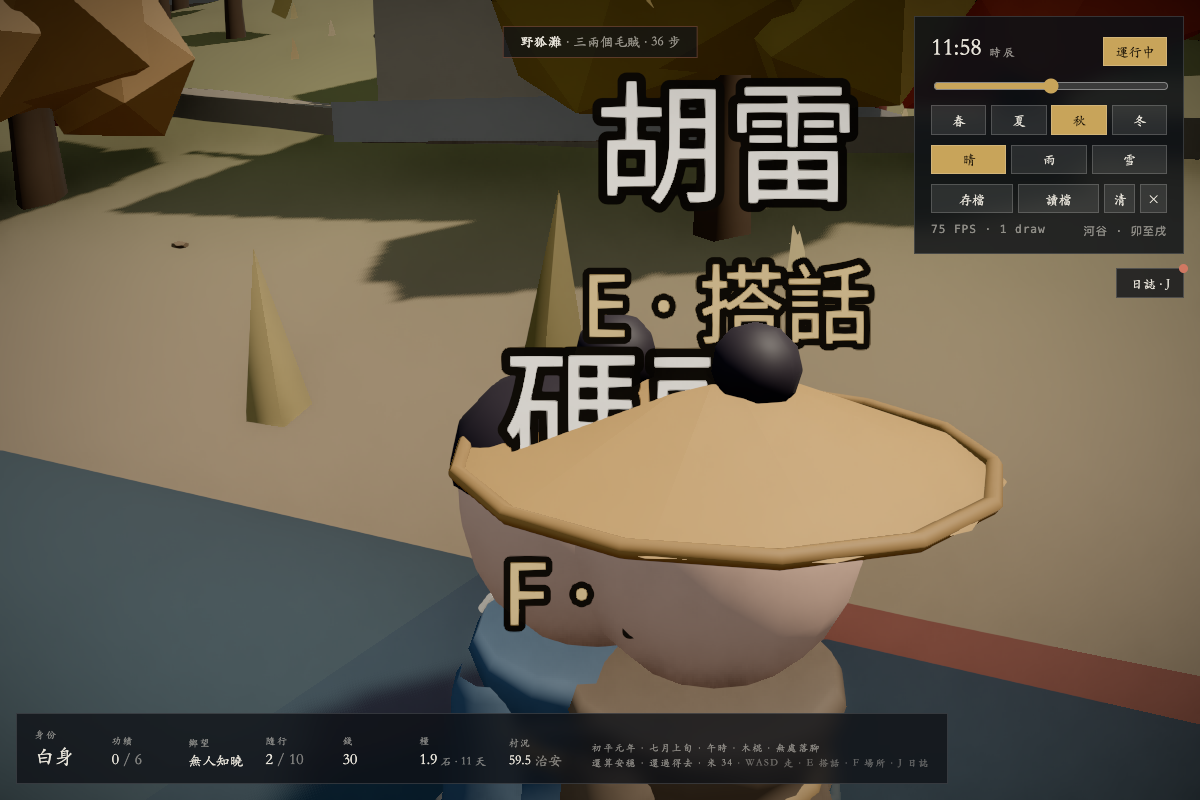
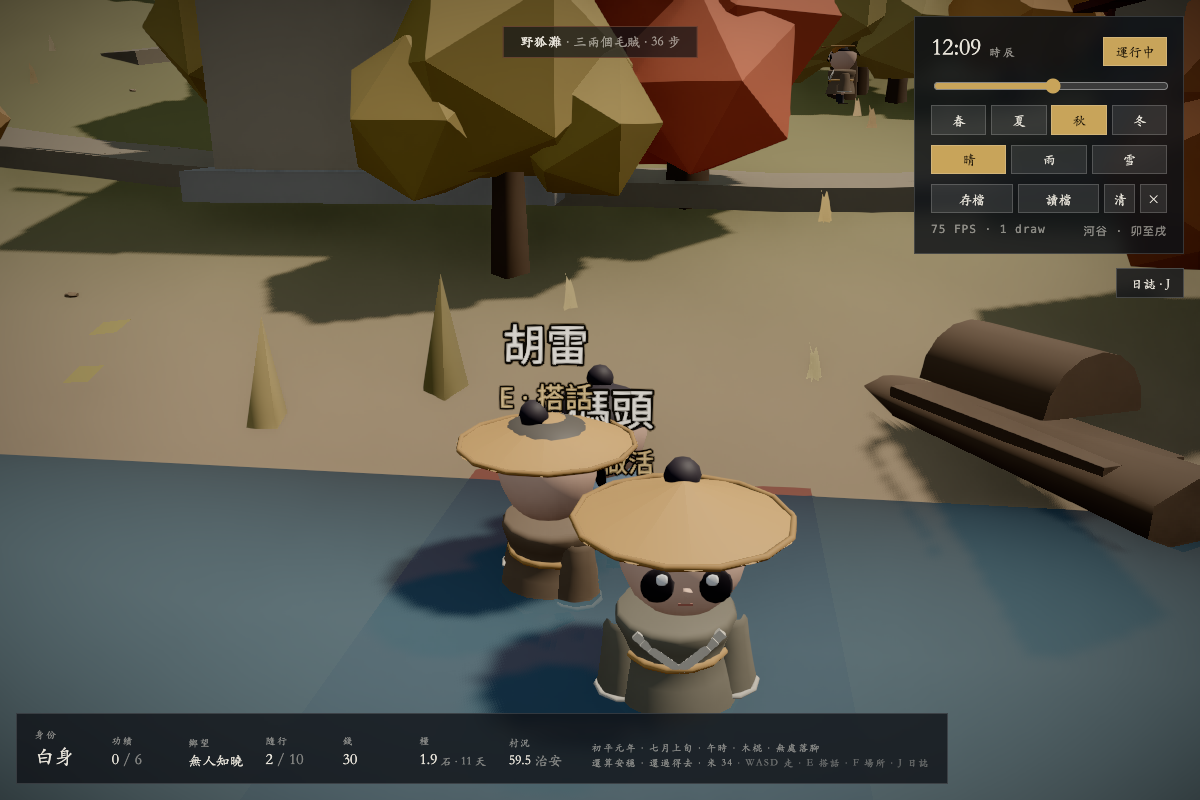
一村子的人不再是複製人:裹幘、鬍子、各人各的身量
三十八個村民共用四種頭,站在市集上一眼就看得出是同一個模子印的。
這一批把「頭」拆成一個 HeadStyle 物件(笠/白髮/幘/鬍),變體從四種擴到八種
—— 同樣的行當、同樣的衣色,換一種頭。

- 幘(頭巾):庶民束髮最常見的一種,和露髻的挑著用。沿著髮面再放大一點鋪一層
  (同一條輪廓線,所以還是處處平行),額前收一道折邊 —— 沒有那道折就只是一頂泳帽。
  顏色要比頭髮淺、比皮膚深,而且不能發亮:第一版 #6d6a62 在暗處讀成銀灰的盔,
  一群裹幘的賊看起來像戴著鋼盔。
- 鬍子:頷下一撮加鼻下兩撇。這副臉本來只有眉眼,下巴那一塊是最大的一片留白。
- 身量:每人開局擲一次(0.88–1.06)。這是複製人感最便宜的解藥 ——
  矩陣裡本來就有縮放這一欄,一個數字都不必多算。縮放要一路帶到胯的高度上,
  不然矮個子的腿會戳進地裡。

八種變體實測都用上了(6/2/2/8/10/5/3/2),身量跨度兩成。
draw call 從 16 到 32,幀率沒動(75)。

README 補六條:凸出多少要是看得懂的數字、長條貼曲面要切段且要疊夠、
兩張貼合的曲面用同一條輪廓線放大、鑲邊要對比色、四種頭等於複製人、
以及 __freezeCam。

diff --git a/src/world/Crowd.tsx b/src/world/Crowd.tsx
@@ -1,4 +1,4 @@
-import { useLayoutEffect, useMemo, useRef } from 'react';
+import { useEffect, useLayoutEffect, useMemo, useRef } from 'react';
 import { useFrame } from '@react-three/fiber';
 import * as THREE from 'three';
 import { groundAt, rng, slideMove, dryLandNear } from './field';
@@ -32,6 +32,8 @@ interface Agent {
   /** 對應 npcs.ts 的身份 — 有名字才談得上搭話。 */
   npcId: string;
   variant: number;
+  /** 身量 —— 這個人比別人高矮胖瘦多少。 */
+  build: number;
   /** 上了年紀 —— 白髮、弓背、腳程慢。年紀要穿在身上,不能只寫在對話裡。 */
   old: boolean;
   home: [number, number];
@@ -108,13 +110,26 @@ export function Crowd() {
             ? (() => { const d = DOCKS[Math.floor(rand() * DOCKS.length)];
                        return dryLandNear(d[0] + (rand() - 0.5) * 3, d[1] + (rand() - 0.5) * 3); })()
             : [MARKET[0] + (rand() - 0.5) * 6, MARKET[1] + (rand() - 0.5) * 6];
-      // 衣裳跟著行當走:農褐、埠青、市綠;上了年紀一律灰袍白髮。
-      // 遠遠一看衣色就知道他是幹什麼的 —— 這就是「行當穿在身上」
-      const variant = old ? 3 : job === 'farm' ? 0 : job === 'dock' ? 1 : 2;
-      rand();                                  // 佔位:原本的 variant 抽數
+      /*
+       * 衣裳跟著行當走:農褐、埠青、市綠;上了年紀一律灰袍白髮。
+       * 遠遠一看衣色就知道他是幹什麼的 —— 這就是「行當穿在身上」。
+       *
+       * 同一個行當再分兩種頭(露髻 / 裹幘),於是四種變體變成八種。
+       * 這一步是為了一件事:三十八個人共用四張臉,那不是一個村子,
+       * 是一批複製人 —— 站在市集上一眼就看出來。
+       */
+      const trade = old ? 3 : job === 'farm' ? 0 : job === 'dock' ? 1 : 2;
+      const variant = trade + (rand() < 0.45 ? 4 : 0);
+      /*
+       * 身量。<b>一村子的人不會一般高</b> —— 這是複製人感最便宜的解藥:
+       * 矩陣裡本來就有縮放這一欄,一個數字都不必多算。
+       * 老人再矮一號(背也弓,見 lean)。
+       */
+      const build = (0.93 + rand() * 0.13) * (old ? 0.94 : 1);
       out.push({
         npcId: villagers[i].id,
         variant,
+        build,
         old,
         home: [h.x, h.z], door: h.door, work, job,
         state: 'home',
@@ -134,18 +149,35 @@ export function Crowd() {
   // 0 農(褐+笠) 1 埠(青+笠) 2 市(綠) 3 老(灰+白髮)
   const variants = useMemo(
     () => [
-      { robe: '#6b5741', hat: true, old: false },
-      { robe: '#3f5568', hat: true, old: false },
-      { robe: '#4a6b52', hat: false, old: false },
-      { robe: '#6a6350', hat: false, old: true },
+      // 露髻的四種
+      { robe: '#6b5741', head: { hat: true } },
+      { robe: '#3f5568', head: { hat: true } },
+      { robe: '#4a6b52', head: {} },
+      { robe: '#6a6350', head: { old: true, beard: true } },
+      // 裹幘的四種 —— 同樣的行當、同樣的衣色,換一種頭
+      { robe: '#6b5741', head: { cloth: true, beard: true } },
+      { robe: '#3f5568', head: { cloth: true } },
+      { robe: '#4a6b52', head: { cloth: true, beard: true } },
+      { robe: '#6a6350', head: { old: true, cloth: true } },
     ].map((v, i) => ({
       body: bodyGeom(new THREE.Color(v.robe)),
-      head: headGeom(v.hat, v.old),
+      head: headGeom(v.head),
       leg: legGeom(),
       idx: agents.map((a, k) => (a.variant === i ? k : -1)).filter((k) => k >= 0),
     })),
     [agents],
   );
+
+  // 原型階段的把手:一村子的人分成幾種、身量差多少
+  useEffect(() => {
+    (window as unknown as Record<string, unknown>).__crowdStat = () => {
+      const byVariant: Record<number, number> = {};
+      const builds = agents.map((a) => +a.build.toFixed(3));
+      for (const a of agents) byVariant[a.variant] = (byVariant[a.variant] ?? 0) + 1;
+      return { n: agents.length, byVariant,
+               build: { min: Math.min(...builds), max: Math.max(...builds) } };
+    };
+  }, [agents]);
 
   const bodyRefs = useRef<Array<THREE.InstancedMesh | null>>([]);
   const headRefs = useRef<Array<THREE.InstancedMesh | null>>([]);
@@ -272,7 +304,7 @@ export function Crowd() {
         tmp.p.set(a.x, a.y + bob, a.z);
         tmp.e.set(lean, a.yaw, sway);
         tmp.q.setFromEuler(tmp.e);
-        tmp.s.setScalar(a.old ? 0.94 : 1);
+        tmp.s.setScalar(a.build);
         tmp.m.compose(tmp.p, tmp.q, tmp.s);
         bm.setMatrixAt(slot, tmp.m);
 
@@ -283,7 +315,7 @@ export function Crowd() {
         const nod = a.state === 'talk' ? Math.sin(t * 2.6 + a.phase) * 0.07 : 0;
         tmp.p.set(
           a.x + Math.sin(a.yaw) * lean * 0.5,
-          a.y + bob + FIG_BODY_H * 0.99 * (a.old ? 0.94 : 1),
+          a.y + bob + FIG_BODY_H * 0.99 * a.build,
           a.z + Math.cos(a.yaw) * lean * 0.5,
         );
         tmp.e.set(nod + lean * 0.6, a.yaw + look, sway * 0.6);
@@ -291,8 +323,8 @@ export function Crowd() {
         tmp.m.compose(tmp.p, tmp.q, tmp.s);
         hm.setMatrixAt(slot, tmp.m);
 
-        // 腿。老人矮一號,腿也跟著矮 —— 縮放要一路帶到胯的高度上
-        const sc = a.old ? 0.94 : 1;
+        // 腿。身量要一路帶到胯的高度上,不然矮個子的腿會戳進地裡
+        const sc = a.build;
         for (const side of [-1, 1] as const) {
           poseLeg(tmp.leg, side, a.x, a.y + bob * 0.5 + FIG_LEG_H * sc, a.z, a.yaw,
             legSwing(step, side, moving), sc);

diff --git a/src/world/figure.ts b/src/world/figure.ts
@@ -309,7 +309,25 @@ function faceStrip(o: {
  * 每一件都貼著臉皮擺(faceZ),不是憑感覺填 z —— 憑感覺的下場是
  * 嘴浮在臉前面一公分,側面看像貼了張紙。
  */
-export function headGeom(hat: boolean, oldHair = false) {
+/**
+ * 一顆頭長什麼樣。
+ *
+ * 分開成一個物件而不是幾個位置參數,是因為<b>這裡遲早會長</b>:
+ * 三十八個村民要是共用兩種頭,那不是一個村子,是一批複製人。
+ */
+export interface HeadStyle {
+  /** 斗笠 —— 下田扛包的戴。 */
+  hat?: boolean;
+  /** 白髮。 */
+  old?: boolean;
+  /** 幘(頭巾)—— 庶民束髮最常見的一種,和露髻的挑著用。 */
+  cloth?: boolean;
+  /** 鬍子。 */
+  beard?: boolean;
+}
+
+export function headGeom(style: HeadStyle = {}) {
+  const { hat = false, old: oldHair = false, cloth = false, beard = false } = style;
   const gs: THREE.BufferGeometry[] = [];
   const HAIR_C = oldHair ? new THREE.Color('#d6d0c4') : HAIR;
   const cy = FIG_HR * 0.84;
@@ -397,6 +415,43 @@ export function headGeom(hat: boolean, oldHair = false) {
     0, cy + R * 1.14, R * 0.26), HAIR_C));
   gs.push(tint(at(new THREE.TorusGeometry(R * 0.24, R * 0.045, 5, 10).rotateX(Math.PI * 0.42),
     0, cy + R * 0.90, R * 0.22), oldHair ? new THREE.Color('#8b8378') : TRIM));
+
+  /*
+   * 幘 —— 庶民把髮包起來的那塊布。
+   *
+   * 和露髻的挑著用,一個村子才不會人人一個模子。做法是沿著髮面再放大一點
+   * 鋪一層(同一條輪廓線,所以還是處處平行),額前收一道折邊。
+   */
+  if (cloth) {
+    /*
+     * 幘的顏色要<b>比頭髮淺、比皮膚深</b>,而且不能發亮。
+     * 第一版 #6d6a62 在暗處讀成一頂銀灰的盔 —— 一群裹幘的賊看起來像戴著鋼盔。
+     */
+    const CLOTH_C = oldHair ? new THREE.Color('#8b857a') : new THREE.Color('#4a453d');
+    gs.push(tint(at(lathe(profileAbove(HEAD_P, HAIRLINE + 0.06), R * 1.075, R * 1.075, 16),
+      0, cy, 0, 1, 1, FACE_SQUASH), CLOTH_C));
+    // 額前那道折 —— 沒有它就只是一頂泳帽
+    gs.push(tint(faceStrip({
+      x: 0, y: cy + R * (HAIRLINE + 0.10), py: HAIRLINE + 0.10,
+      w: R * 1.05, h: R * 0.095, d: R * 0.07, tilt: 0, R: R * 1.075,
+    }), CLOTH_C.clone().multiplyScalar(0.78)));
+  }
+
+  /*
+   * 鬍子。上了年紀的、或是幾個壯年,臉下半就不再是一片空白 ——
+   * 這副臉本來只有眉眼,下巴那一塊是最大的一片留白。
+   */
+  if (beard) {
+    const BEARD_C = oldHair ? new THREE.Color('#b9b2a6') : new THREE.Color('#33292c');
+    // 頷下一撮
+    gs.push(tint(at(new THREE.SphereGeometry(R * 0.30, 8, 6),
+      0, cy - R * 0.74, faceZ(-0.74, -R * 0.06), 0.85, 0.95, 0.75), BEARD_C));
+    // 髭 —— 鼻下兩撇
+    for (const side of [-1, 1]) {
+      gs.push(tint(at(rot(slab(R * 0.16, R * 0.05, R * 0.05), 0, 0, side * 0.30),
+        side * R * 0.10, cy - R * 0.36, faceZ(-0.36, -R * 0.004)), BEARD_C));
+    }
+  }
 
   if (hat) {
     // 斗笠 —— 加一圈笠緣,錐面才不像一個紙帽子

diff --git a/src/world/Battle.tsx b/src/world/Battle.tsx
@@ -113,9 +113,9 @@ export function Battle() {
   );
 
   const geoms = useMemo(() => ({
-    foe: { body: bodyGeom(new THREE.Color(FOE_ROBE)), head: headGeom(false) },
-    chief: { body: bodyGeom(new THREE.Color(FOE_CHIEF_ROBE)), head: headGeom(true) },
-    mate: { body: bodyGeom(new THREE.Color('#6b5741')), head: headGeom(false) },
+    foe: { body: bodyGeom(new THREE.Color(FOE_ROBE)), head: headGeom({ cloth: true }) },
+    chief: { body: bodyGeom(new THREE.Color(FOE_CHIEF_ROBE)), head: headGeom({ hat: true, beard: true }) },
+    mate: { body: bodyGeom(new THREE.Color('#6b5741')), head: headGeom() },
   }), []);
 
   // 刀 = 柄 + 護手 + 身。三塊而已,但少了護手就只是一根白棍子

diff --git a/src/world/Drifters.tsx b/src/world/Drifters.tsx
@@ -27,8 +27,8 @@ export function Drifters() {
   const phase = useMarauders((s) => s.phase);
 
   const geoms = useMemo(() => ({
-    poor: { body: bodyGeom(new THREE.Color('#5d564a')), head: headGeom(false) },
-    troop: { body: bodyGeom(new THREE.Color('#3a3d46')), head: headGeom(false) },
+    poor: { body: bodyGeom(new THREE.Color('#5d564a')), head: headGeom({ cloth: true }) },
+    troop: { body: bodyGeom(new THREE.Color('#3a3d46')), head: headGeom({ beard: true }) },
   }), []);
   const spear = useMemo(() => {
     const g = new THREE.CylinderGeometry(0.035, 0.035, 2.6, 5);

diff --git a/src/world/CountyFolk.tsx b/src/world/CountyFolk.tsx
@@ -45,7 +45,10 @@ export function CountyFolk() {
 
   const geoms = useMemo(() => COUNTY_FOLK.map((p, i) => ({
     body: bodyGeom(new THREE.Color(ROBES[i % ROBES.length])),
-    head: headGeom(p.trade === 'market' && p.age > 40),
+    head: headGeom({
+      hat: p.trade === 'market' && p.age > 40,
+      old: p.age > 55, cloth: i % 3 === 0, beard: p.age > 44,
+    }),
   })), []);
 
   const groups = useRef<Record<string, THREE.Group | null>>({});

diff --git a/src/world/Raiders.tsx b/src/world/Raiders.tsx
@@ -30,7 +30,7 @@ export function Raiders() {
   const version = useRaids((s) => s.version);
   const geoms = useMemo(() => ({
     body: bodyGeom(new THREE.Color('#4a3f42')),
-    head: headGeom(false),
+    head: headGeom({ beard: true }),
   }), []);
   const bladeGeom = useMemo(() => {
     const g = new THREE.BoxGeometry(0.05, 0.5, 0.1);

diff --git a/src/world/Followers.tsx b/src/world/Followers.tsx
@@ -49,7 +49,7 @@ export function Followers() {
   const geoms = useMemo(
     () => ROBES.map((hex, i) => ({
       body: bodyGeom(new THREE.Color(hex)),
-      head: headGeom(i % 2 === 1),
+      head: headGeom({ hat: i % 2 === 1, cloth: i % 3 === 1, beard: i % 4 === 2 }),
     })),
     [],
   );

diff --git a/src/world/LostPerson.tsx b/src/world/LostPerson.tsx
@@ -30,7 +30,7 @@ export function LostPerson() {
   const group = useRef<THREE.Group>(null);
   const geom = useMemo(() => ({
     body: bodyGeom(new THREE.Color('#7a6a4e')),
-    head: headGeom(false),
+    head: headGeom(),
   }), []);
   const trail = useRef({ x: 0, z: 0 });
 

diff --git a/src/world/figure.test.ts b/src/world/figure.test.ts
@@ -31,7 +31,7 @@ function vertsOfColor(g: THREE.BufferGeometry, c: THREE.Color) {
   return out;
 }
 
-const head = headGeom(false, false);
+const head = headGeom();
 const body = bodyGeom(new THREE.Color('#3f5568'));
 
 describe('五官貼在臉上', () => {

diff --git a/src/world/Player.tsx b/src/world/Player.tsx
@@ -50,7 +50,7 @@ export function Player() {
   const weapon = useHero((s) => s.weapon);
   const geom = useMemo(() => ({
     body: bodyGeom(new THREE.Color('#3f5568')),
-    head: headGeom(false),
+    head: headGeom(),
     leg: legGeom(),
   }), []);
 
